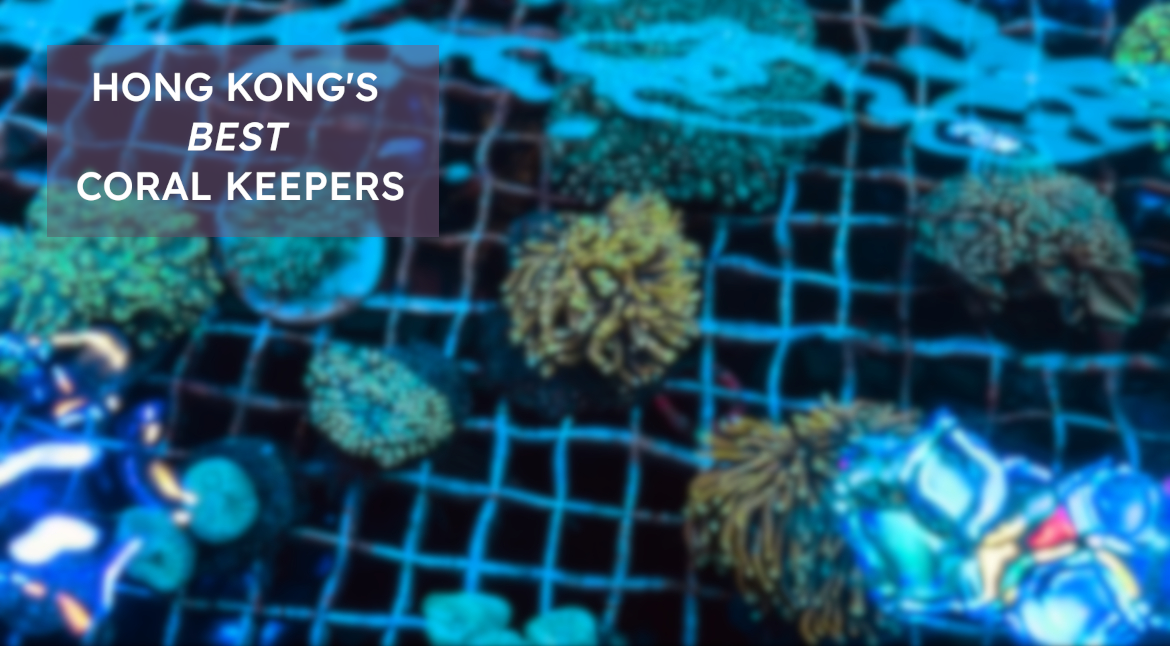
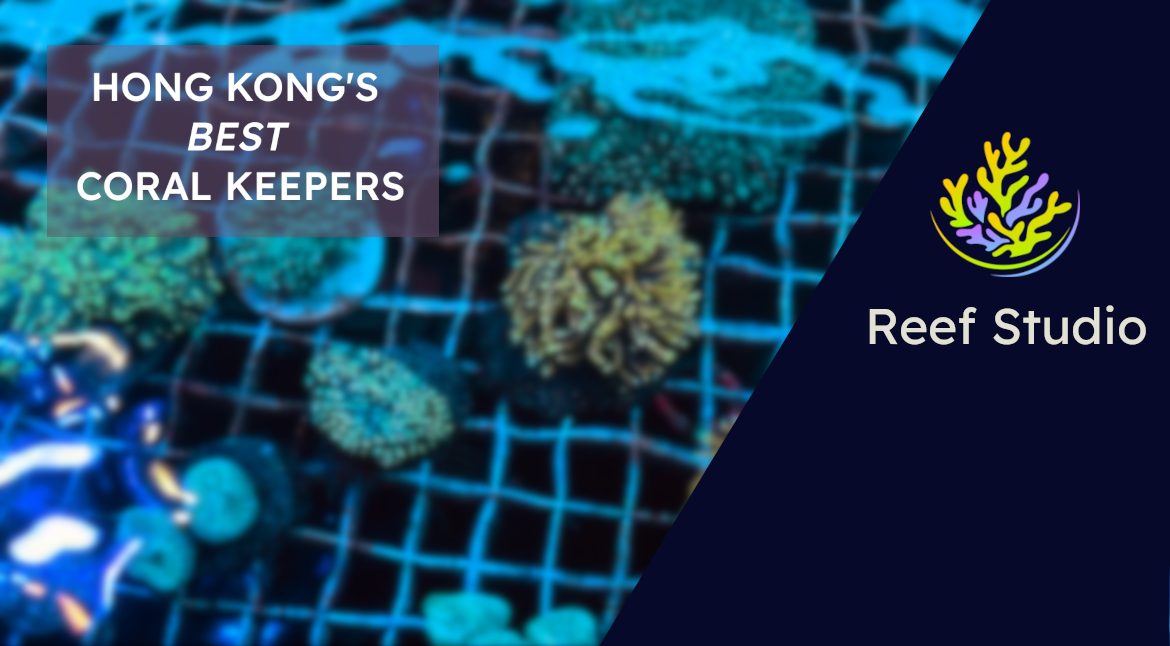
oh gosh so much

Changed region(s): [[0.4923, 0.0, 1.0, 1.0]]

diff --git a/index.html b/index.html
@@ -12,7 +12,7 @@
 
 
     <!-- NAV BAR -->
-    <nav class="navbar navbar-expand-lg bg-body-tertiary mx-auto">
+    <nav class="navbar navbar-expand-lg bg-body-tertiary mx-auto sticky-top">
       <div class="container-fluid ms-5">
 	<a class="navbar-brand me-auto" href="#">
 	  <img src="https://reefstudio.com.hk/wp-content/uploads/2024/03/cropped-transparent_bg.png" alt="Logo" height="100" class="d-inline-block align-text-center">	  
@@ -29,10 +29,158 @@
       </div>
     </nav>
     <!-- NAV BAR END -->
-
-    <div class="container mt-5 bg-secondary rounded-3 d-flex p-4" id="mainBanner">
-    </div>
     
+    <div class="container-fluid mt-5"> <!-- content container -->
+      
+      <div class="row justify-content-center">
+	<div class="col-8 bg-secondary rounded-3 d-flex" id="mainBanner">
+	</div>
+      </div>
+      <div class="row mt-4 justify-content-center">
+	<div class="col-5 me-2 bg-secondary rounded-3 subBanner" id="subBanner1"></div>
+	<div class="col-5 ms-2 bg-secondary rounded-3 subBanner" id="subBanner2"></div>
+      </div>
+
+      
+      <!-- CAROUSEL -->
+
+      <div id="carousel" class="carousel slide mt-4 row" data-bs-ride="carousel" data-bs-interval="3000">
+	<div class="carousel-inner">
+	  <div class="carousel-item citem active">
+	    <div class="row justify-content-center" style="width: 85% !important; margin: auto;"> <!-- CARD ROW -->
+	      <div class="col">
+		<div class="card" style="width: 90%; margin: auto;">
+		  <img src="./media/subbanner2.png" class="card-img-top" alt="...">
+		  <div class="card-body">
+		    <h5 class="card-title">Card title</h5>
+		    <p class="card-text">Some quick example text to build on the card title and make up the bulk of the card's content.</p>
+		    <a href="#" class="btn btn-primary">Go somewhere</a>
+		  </div>
+		</div>
+	    </div>
+	      <div class="col">
+		<div class="card" style="width: 90%; margin: auto;">
+		  <img src="./media/subbanner2.png" class="card-img-top" alt="...">
+		  <div class="card-body">
+		    <h5 class="card-title">Card title</h5>
+		    <p class="card-text">Some quick example text to build on the card title and make up the bulk of the card's content.</p>
+		    <a href="#" class="btn btn-primary">Go somewhere</a>
+		  </div>
+		</div>
+	      </div>
+	      <div class="col">
+		<div class="card" style="width: 90%; margin: auto;">
+		  <img src="./media/subbanner2.png" class="card-img-top" alt="...">
+		  <div class="card-body">
+		    <h5 class="card-title">Card title</h5>
+		    <p class="card-text">Some quick example text to build on the card title and make up the bulk of the card's content.</p>
+		    <a href="#" class="btn btn-primary">Go somewhere</a>
+		  </div>
+		</div>
+	      </div>
+	    </div>
+    	    
+	  </div>
+	  <div class="carousel-item citem">
+	    <div class="row justify-content-center" style="width: 85% !important; margin: auto;"> <!-- CARD ROW -->
+	      <div class="col">
+		<div class="card" style="width: 90%; margin: auto;">
+		  <img src="./media/subbanner2.png" class="card-img-top" alt="...">
+		  <div class="card-body">
+		    <h5 class="card-title">Card title</h5>
+		    <p class="card-text">Some quick example text to build on the card title and make up the bulk of the card's content.</p>
+		    <a href="#" class="btn btn-primary">Go somewhere</a>
+		  </div>
+		</div>
+	      </div>
+	      <div class="col">
+		<div class="card" style="width: 90%; margin: auto;">
+		  <img src="./media/subbanner2.png" class="card-img-top" alt="...">
+		  <div class="card-body">
+		    <h5 class="card-title">Card title</h5>
+		    <p class="card-text">Some quick example text to build on the card title and make up the bulk of the card's content.</p>
+		    <a href="#" class="btn btn-primary">Go somewhere</a>
+		  </div>
+		</div>
+	      </div>
+	      <div class="col">
+		<div class="card" style="width: 90%; margin: auto;">
+		  <img src="./media/subbanner2.png" class="card-img-top" alt="...">
+		  <div class="card-body">
+		    <h5 class="card-title">Card title</h5>
+		    <p class="card-text">Some quick example text to build on the card title and make up the bulk of the card's content.</p>
+		    <a href="#" class="btn btn-primary">Go somewhere</a>
+		  </div>
+		</div>
+	      </div>
+	    </div>
+    	    
+	  </div>
+	  <div class="carousel-item citem">
+	    <div class="row justify-content-center" style="width: 85% !important; margin: auto;"> <!-- CARD ROW -->
+	      <div class="col">
+		<div class="card" style="width: 90%; margin: auto;">
+		  <img src="./media/subbanner2.png" class="card-img-top" alt="...">
+		  <div class="card-body">
+		    <h5 class="card-title">Card title</h5>
+		    <p class="card-text">Some quick example text to build on the card title and make up the bulk of the card's content.</p>
+		    <a href="#" class="btn btn-primary">Go somewhere</a>
+		  </div>
+		</div>
+	      </div>
+	      <div class="col">
+		<div class="card" style="width: 90%; margin: auto;">
+		  <img src="./media/subbanner2.png" class="card-img-top" alt="...">
+		  <div class="card-body">
+		    <h5 class="card-title">Card title</h5>
+		    <p class="card-text">Some quick example text to build on the card title and make up the bulk of the card's content.</p>
+		    <a href="#" class="btn btn-primary">Go somewhere</a>
+		  </div>
+		</div>
+	      </div>
+	      <div class="col">
+		<div class="card" style="width: 90%; margin: auto;">
+		  <img src="./media/subbanner2.png" class="card-img-top" alt="...">
+		  <div class="card-body">
+		    <h5 class="card-title">Card title</h5>
+		    <p class="card-text">Some quick example text to build on the card title and make up the bulk of the card's content.</p>
+		    <a href="#" class="btn btn-primary">Go somewhere</a>
+		  </div>
+		</div>
+	      </div>
+	    </div>
+    	    
+	  </div>
+	</div>
+	<button class="carousel-control-prev" type="button" data-bs-target="#carousel" data-bs-slide="prev">
+	  <span class="carousel-control-prev-icon" aria-hidden="true"></span>
+	  <span class="visually-hidden">Previous</span>
+	</button>
+	<button class="carousel-control-next" type="button" data-bs-target="#carousel" data-bs-slide="next">
+	  <span class="carousel-control-next-icon" aria-hidden="true"></span>
+	  <span class="visually-hidden">Next</span>
+	</button>
+
+      </div>
+      
+      <!-- CAROUSEL END -->
+
+      
+    </div>
+
+    <!-- FOOTER -->
+    <nav class="navbar bg-body-tertiary navbar-expand mt-5 justify-content-center text-center" id="footer">
+      <div class="row justify-content-evenly" style="width:100%;">
+	<div class="col">
+	  &#169; 2025 Reef Studio
+	</div>
+	<div class="col">
+	  5A3, Vita Tower, 25 Wong Chuk Hang Road, Wong Chuk Hang, Hong Kong
+	</div>
+      </div>
+
+    </nav>
+
     
     <script src=" https://cdn.jsdelivr.net/npm/jquery@3.7.1/dist/jquery.min.js "></script>
     <script src="https://cdn.jsdelivr.net/npm/bootstrap@5.3.3/dist/js/bootstrap.bundle.min.js" integrity="sha384-YvpcrYf0tY3lHB60NNkmXc5s9fDVZLESaAA55NDzOxhy9GkcIdslK1eN7N6jIeHz" crossorigin="anonymous"></script>

diff --git a/style.css b/style.css
@@ -5,10 +5,54 @@ body{
 }
 
 #mainBanner{
-    width: 70vw;
-    height: 30vw;
+    width: 70%;
+    height: 26vw;
     background-image: url("./media/banner1.png");
     background-size: cover;
     background-position: top;
     background-repeat: no-repeat;
+}
+
+
+.subBanner{ /* for the secondary banner under the main banner*/
+    height: 17vw;
+    background-size: cover;
+    background-position: right top;
+    background-repeat: no-repeat;
+    cursor: pointer;
+    transition: box-shadow 0.2s;
+}
+
+.subBanner:hover{
+    box-shadow: 0px 0px 20px 2px #212121 inset;
+}
+
+#subBanner1{
+    background-image: url("./media/subbanner1.png");
+}
+
+#subBanner2{
+    background-position: left top !important; 
+    background-image: url("./media/subbanner2.png");
+}
+
+.citem{
+    height: 100%;
+    width: 100%;
+}
+
+#carousel{
+    width: 70%;
+    /*height: 17vw;*/
+    overflow-y: hidden;
+    margin: 0 auto;
+}
+
+#footer{
+    height: 5vh;
+}
+
+.carousel-control-next,
+.carousel-control-prev /*, .carousel-indicators to white */ {
+    filter: invert(100%);
 }
